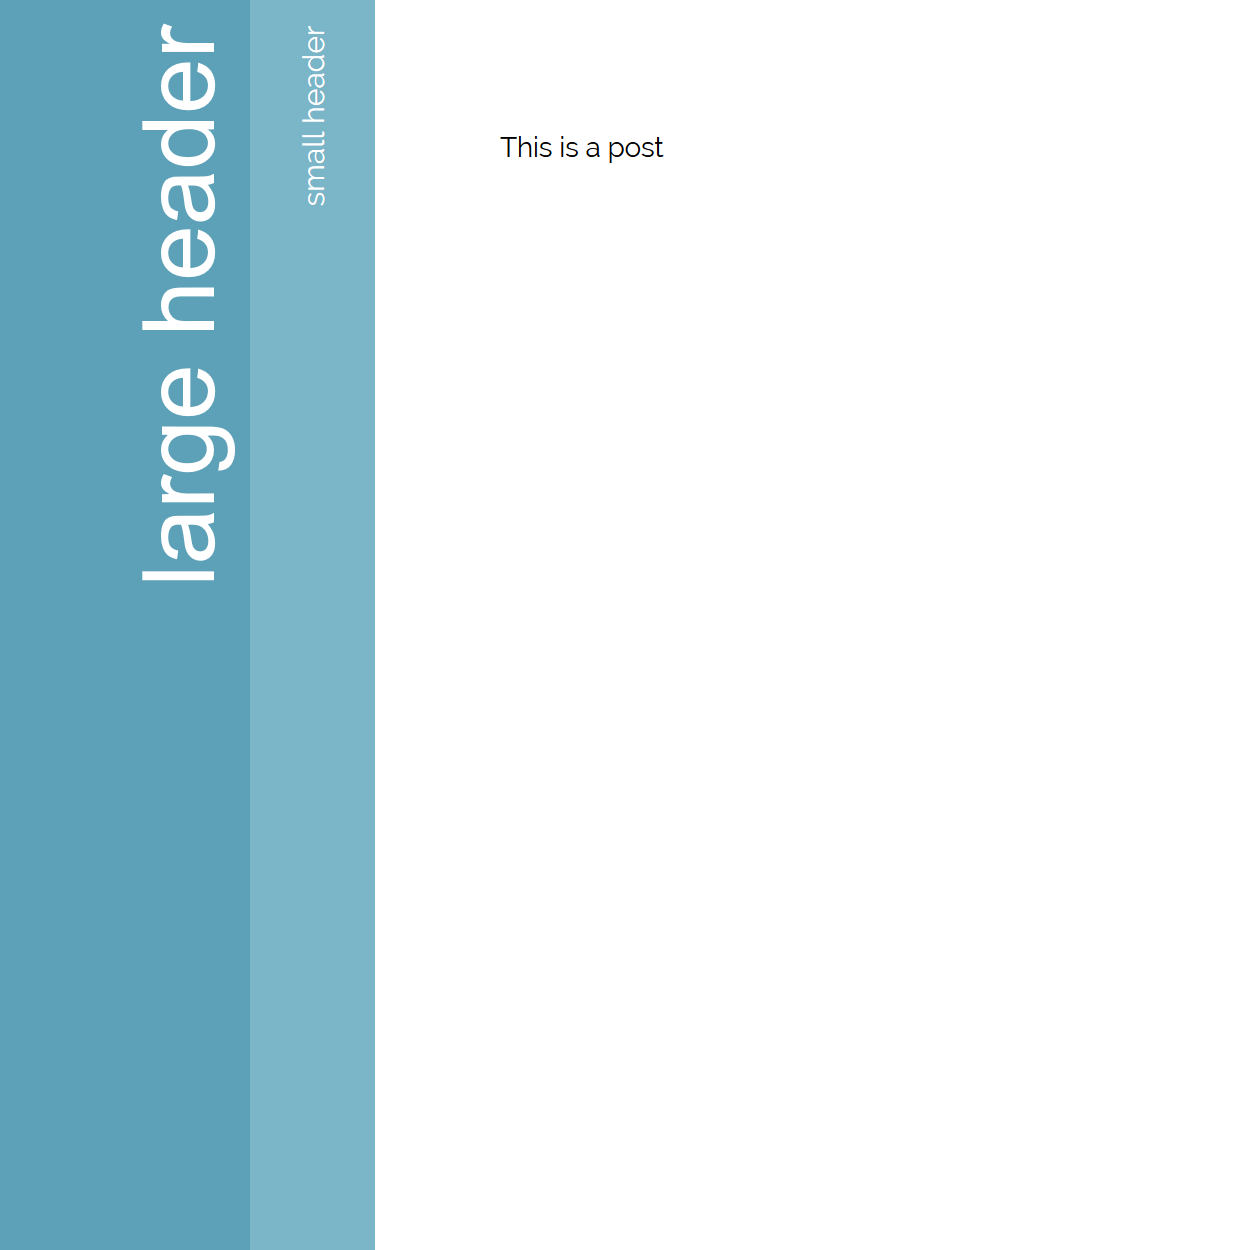
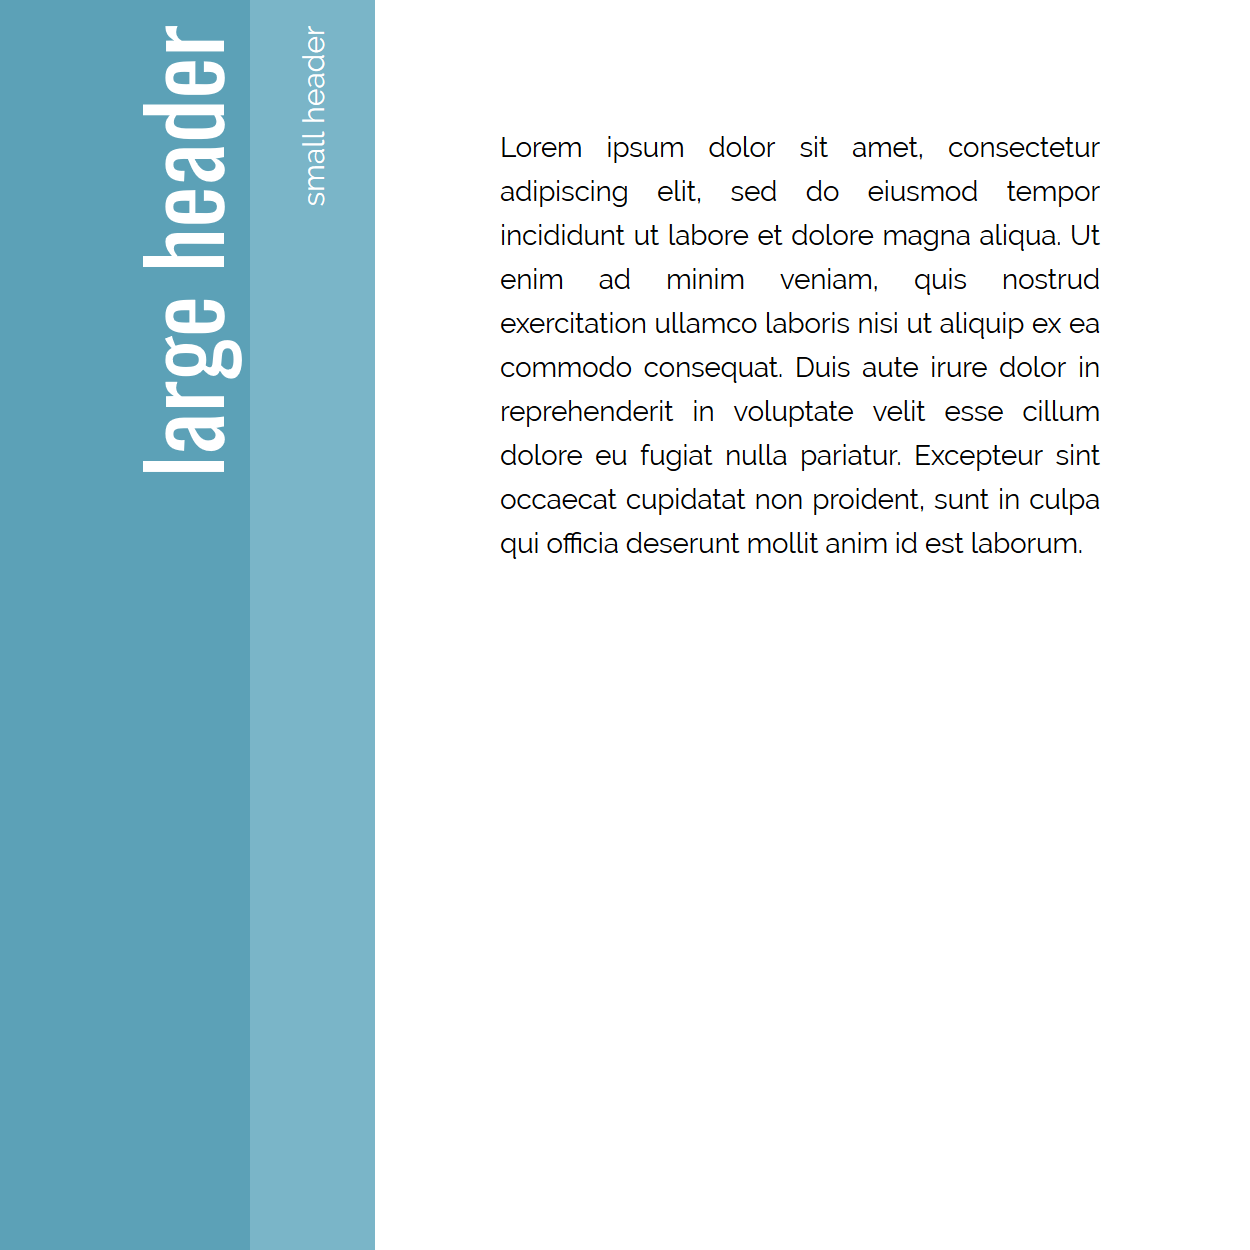
Update sample image

Changed region(s): [[0.4056, 0.0936, 0.8736, 0.468], [0.0936, 0.0, 0.2184, 0.468]]

diff --git a/jcink-temps/stripe/generate.html b/jcink-temps/stripe/generate.html
@@ -9,7 +9,7 @@
         <script defer src="../generator/staticGen.js"></script>
 
         <!-- Template Specific -->
-        <link href="//fonts.googleapis.com/css?family=Raleway:400,400i,700,700i" rel="stylesheet"><link href="//fonts.googleapis.com/css?family=Oswald:400,700&amp;subset=cyrillic,latin-ext" rel="stylesheet"><link rel="stylesheet" href="styles.css"><script defer src="scripts.js"></script>
+        <link href="https://fonts.googleapis.com/css2?family=Oswald:wght@400;700&family=Raleway:ital,wght@0,400;0,700;1,400;1,700&display=swap" rel="stylesheet"> <link rel="stylesheet" href="styles.css"><script defer src="scripts.js"></script>
 
         <script defer src="flexGen.js"></script>
     </head>
